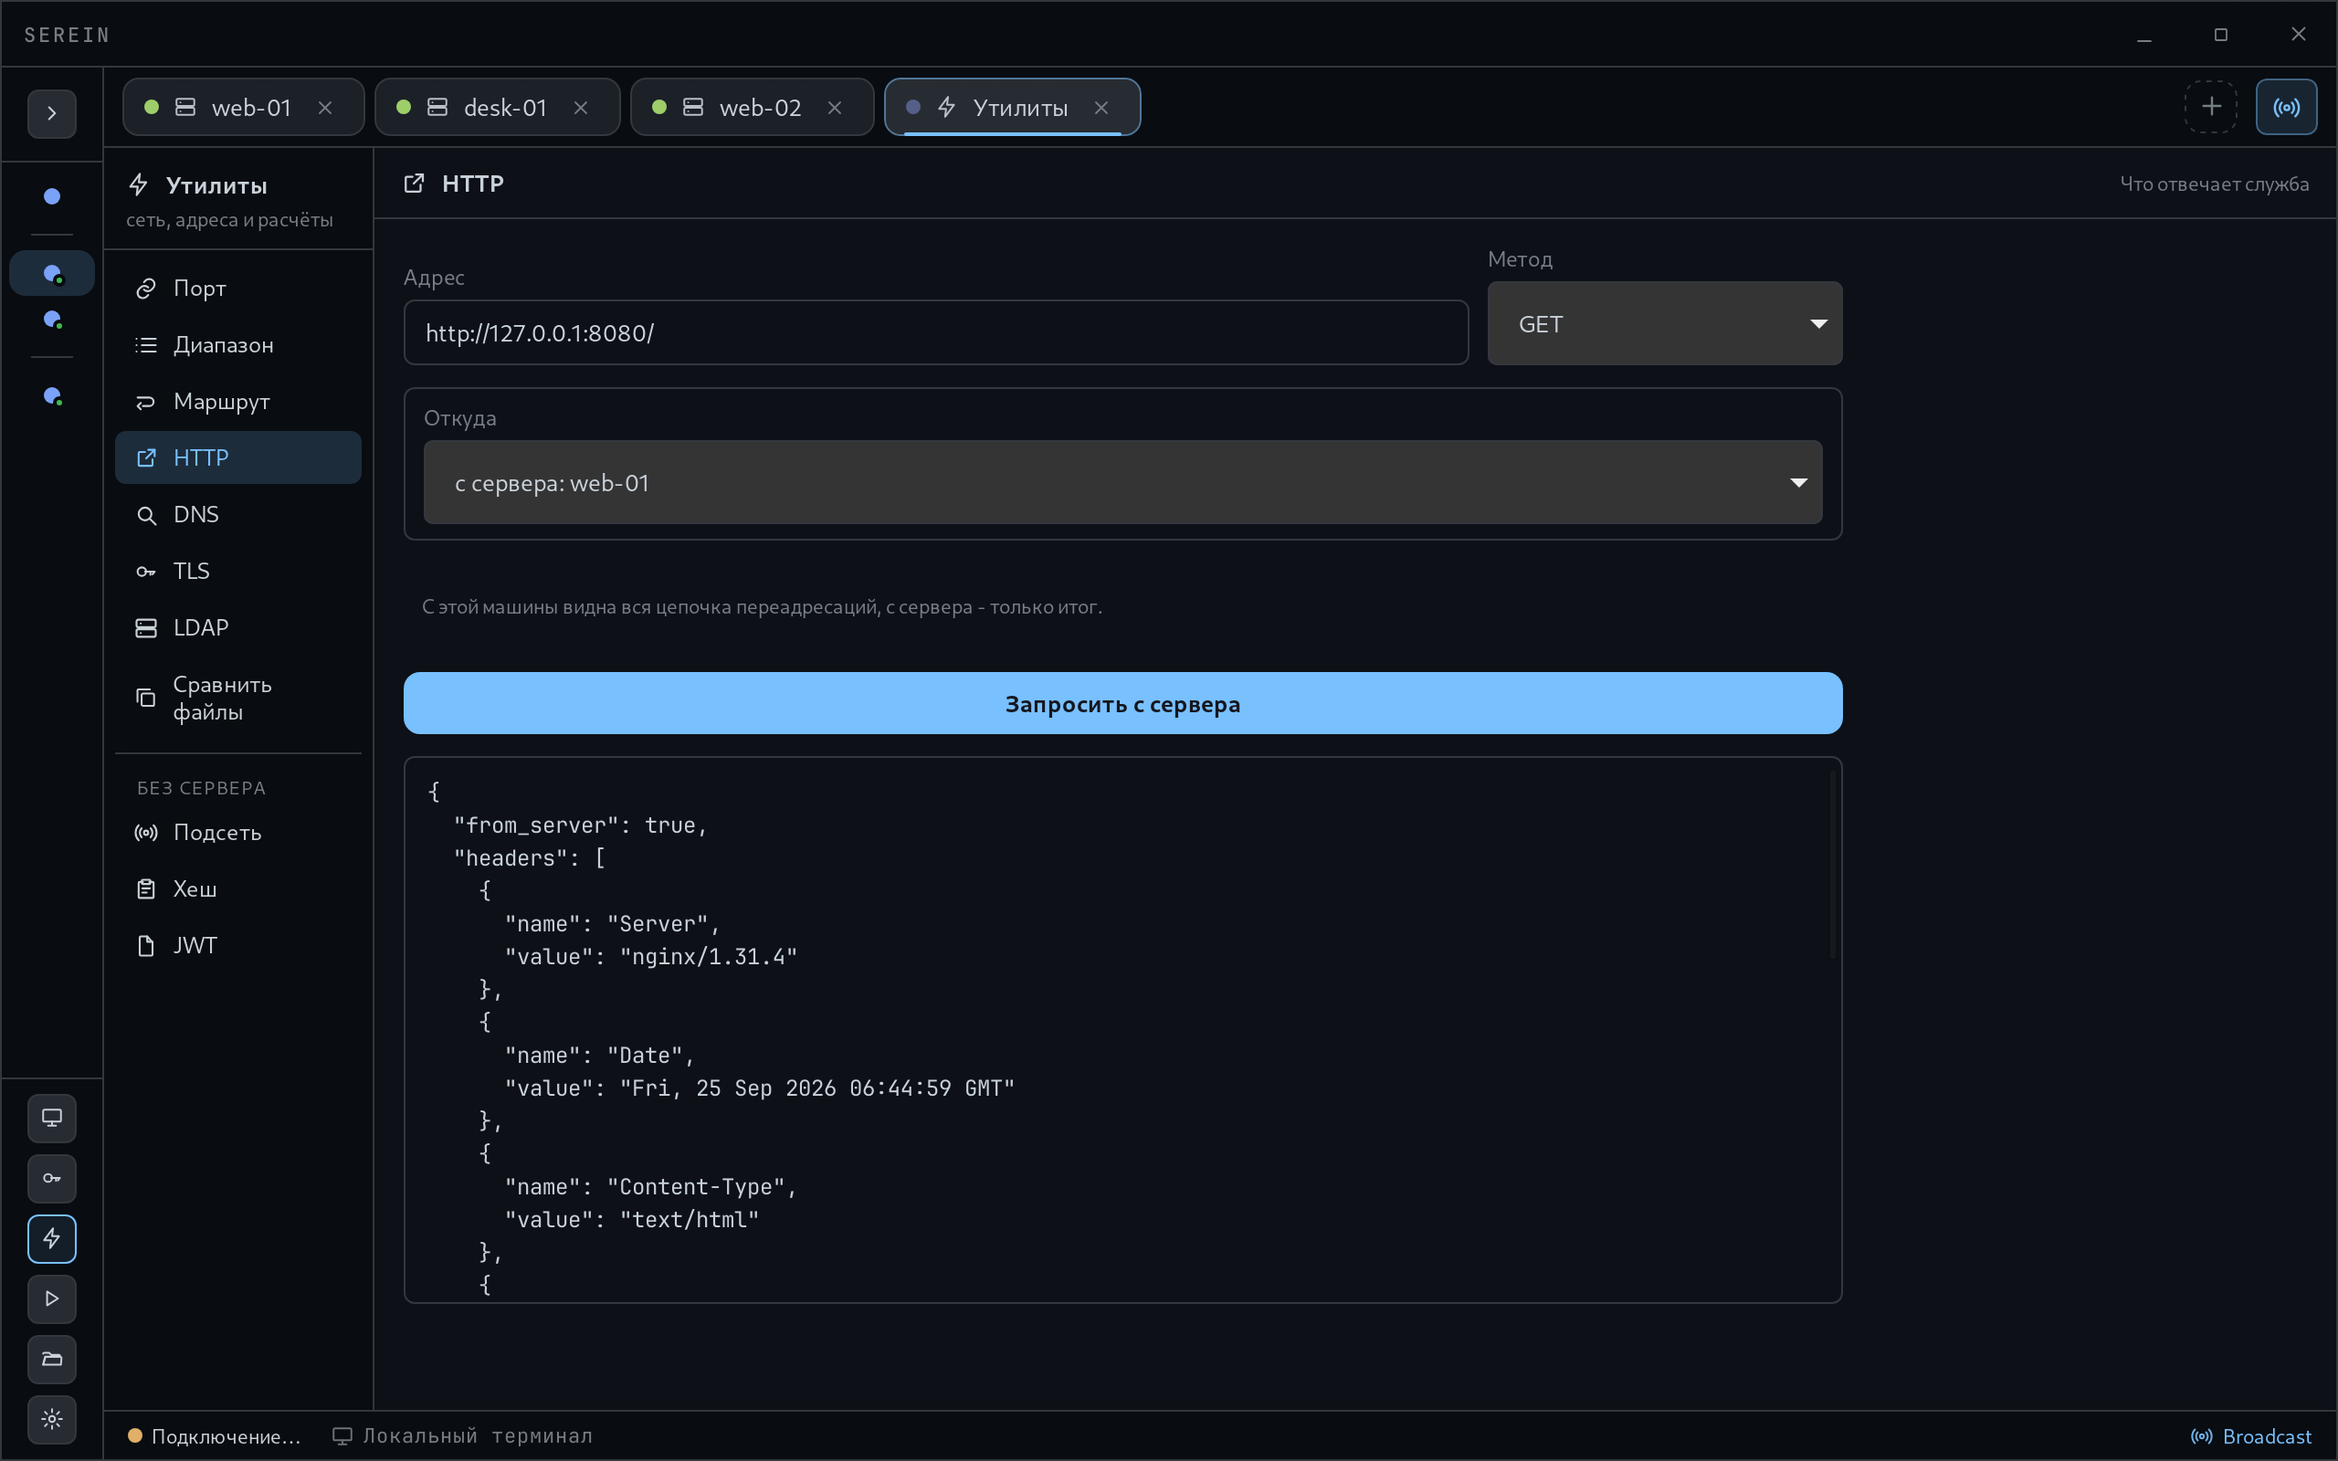
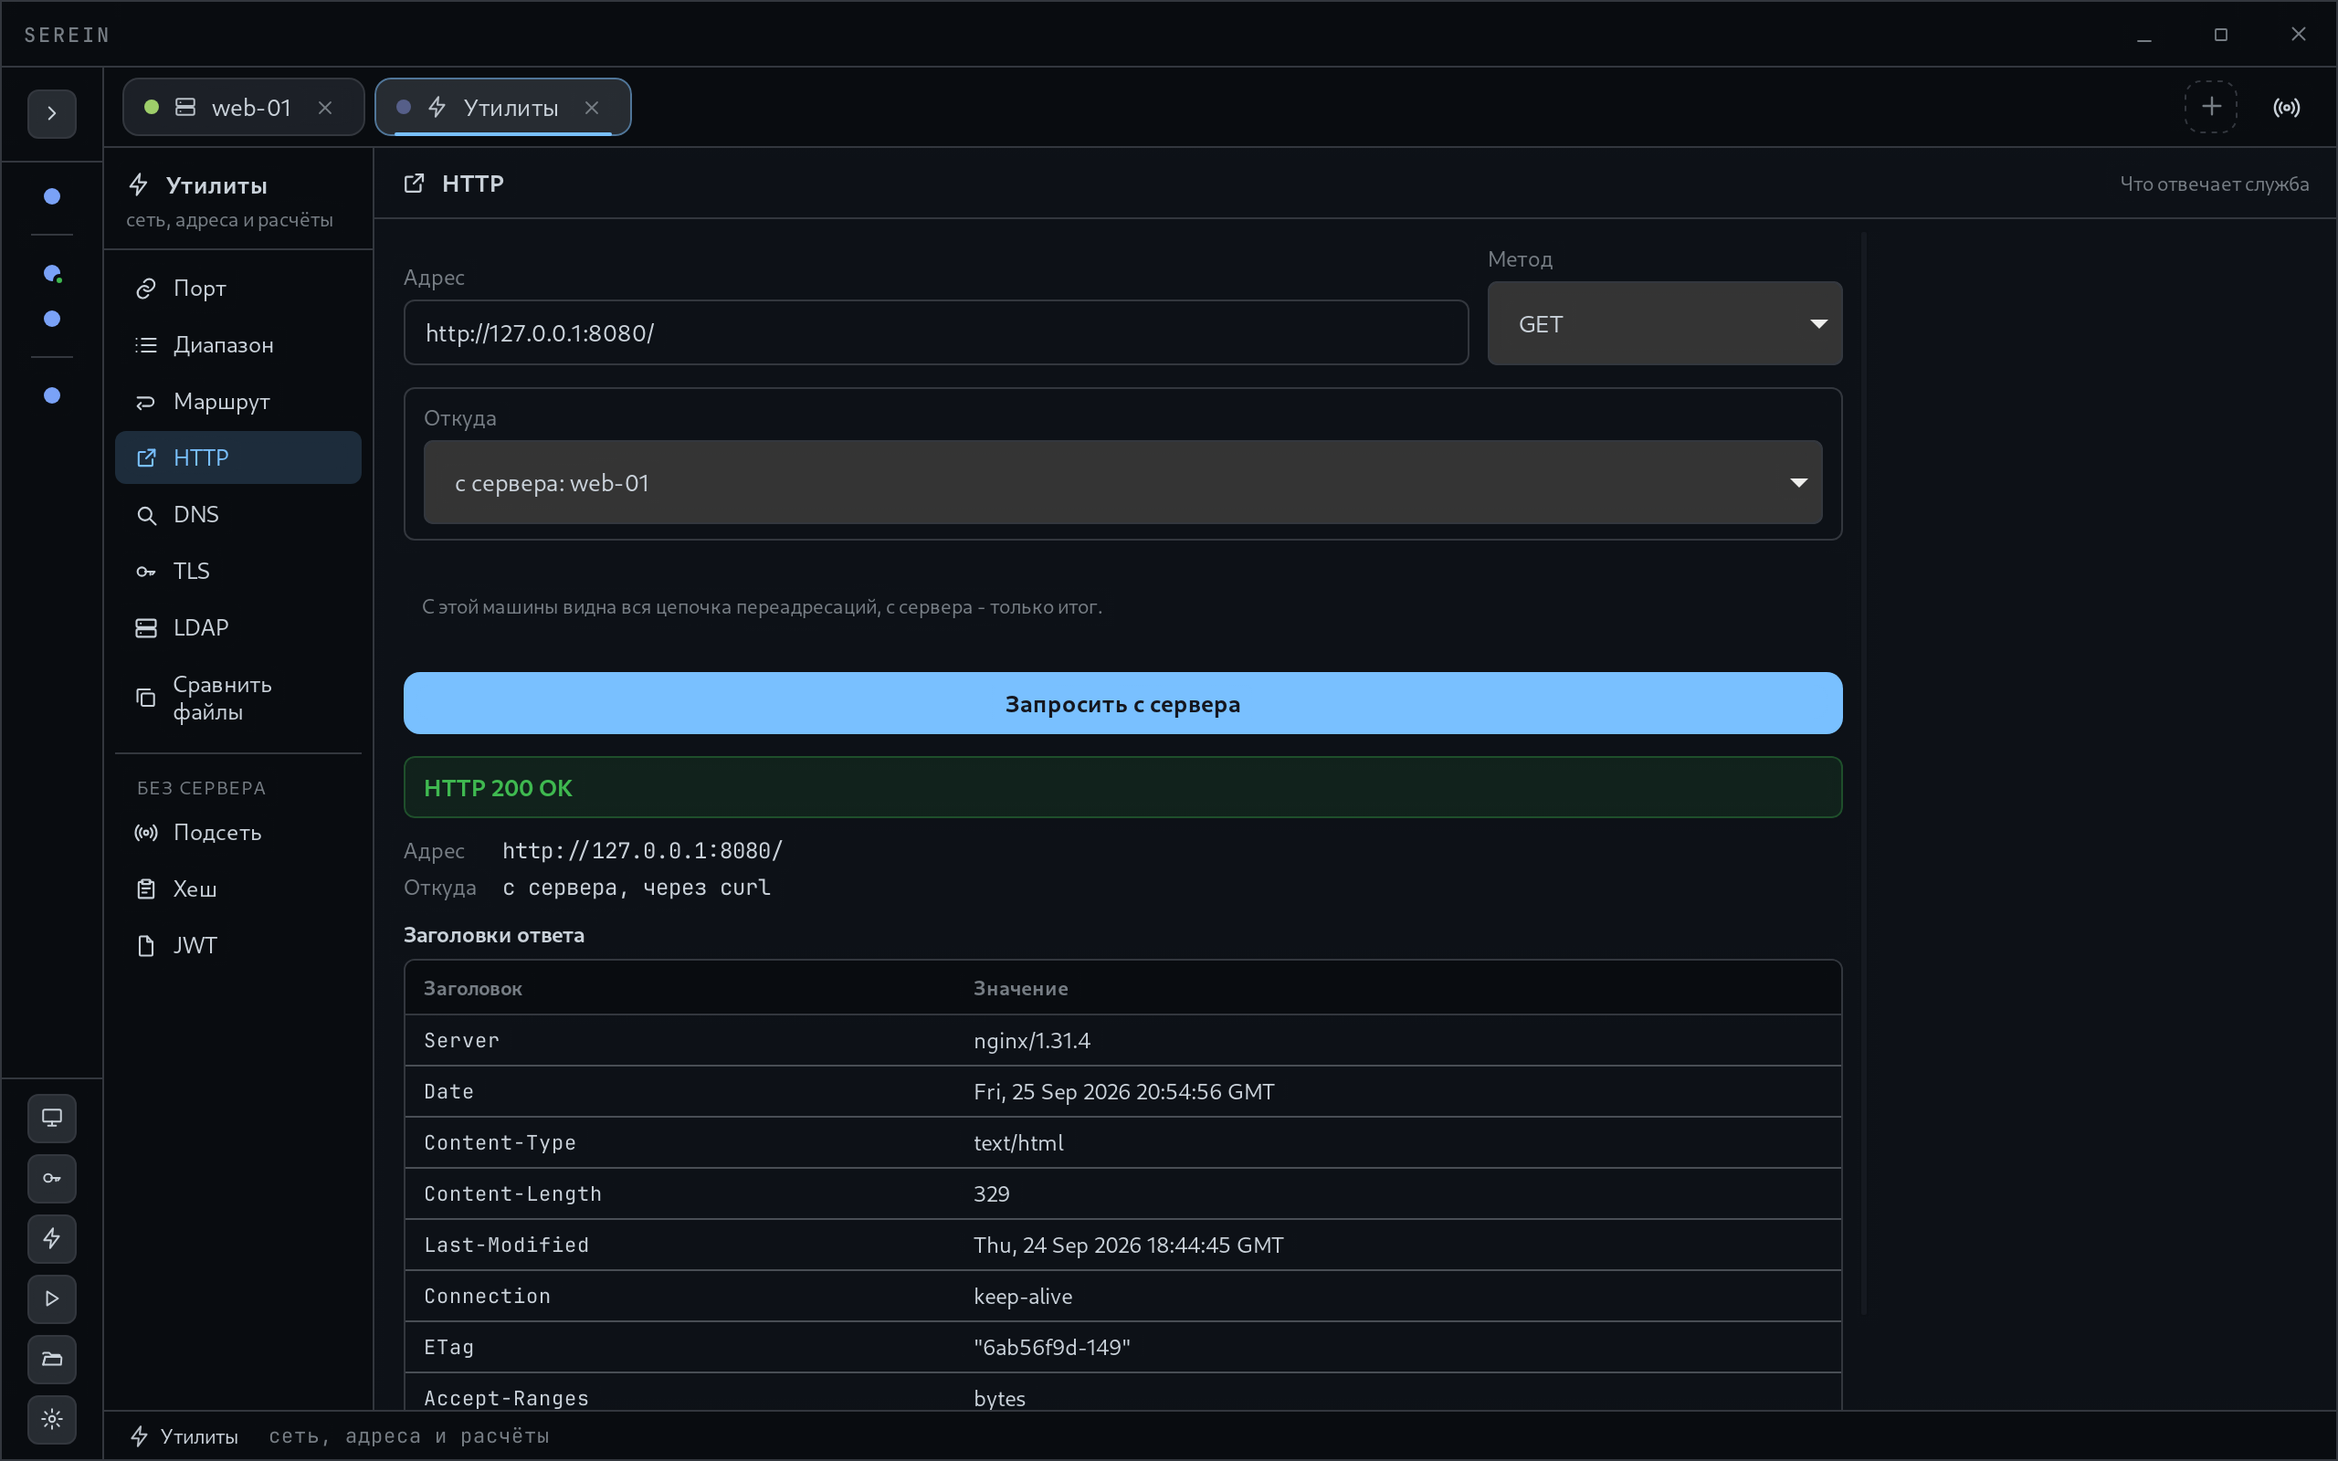
Инструкция и README описывают sudo для служб, ответы утилит словами и повтор пароля, переснято 4 кадра

diff --git a/docs/guide/README.md b/docs/guide/README.md
@@ -419,11 +419,14 @@ PID, состоянию, можно несколько слов) и сортир
 
 Кнопки в строке: запустить, перезапустить, остановить. Serein спросит подтверждение.
 
-> **Важно про права.** Serein управляет службами от имени того пользователя, под которым
-> вы вошли, и пароль `sudo` для этого не спрашивает. Если вы вошли не как `root`, нужен
-> доступ к управлению службами, иначе увидите ошибку systemd
-> «Interactive authentication required». Обычно администратор выдаёт такой доступ правилом
-> polkit для нужных служб. Смотреть список и состояние служб можно без всяких прав.
+> **Про права.** Управлять службами может `root` или пользователь, которому это разрешено:
+> правилом polkit или через `sudo`. Если прав не хватает, Serein сам попробует `sudo`. Когда
+> `sudo` пускает без пароля, действие просто выполнится. Иначе над списком появится поле
+> «Пароль sudo»: пароль уходит серверу напрямую и нигде не сохраняется. Смотреть список и
+> состояние служб можно без всяких прав.
+
+Если служба не запустилась, Serein скажет об этом словами и подскажет, где смотреть
+подробности: `journalctl -u имя-службы`.
 
 ---
 
@@ -533,8 +536,11 @@ PID, состоянию, можно несколько слов) и сортир
 ![HTTP-запрос с сервера](img/tools-http.webp)
 
 Проверка «с сервера» показывает то, что видит сам сервер: например, сайт, который слушает
-только внутри сервера и снаружи недоступен. Результат выводится как есть, в виде
-структурированных данных.
+только внутри сервера и снаружи недоступен.
+
+Ответ показывается словами: сверху итог - «Порт открыт», «HTTP 200 OK», «Действует ещё 65
+дней», ниже подробности и таблицы. Исходный ответ целиком - под «Подробно»: его удобно
+приложить к заявке.
 
 ---
 
@@ -680,14 +686,15 @@ RTS.
 
 - **Мастер-пароль** - дополнительная защита сохранённых паролей и ключей. Serein будет
   спрашивать его при каждом запуске. Минимум 12 символов; удобнее фраза из нескольких
-  слов, спецсимволы не обязательны. Запомните его: без мастер-пароля сохранённые пароли не
+  слов, спецсимволы не обязательны. Пароль вводится дважды, чтобы опечатка не заперла
+  вас снаружи. Запомните его: без мастер-пароля сохранённые пароли не
   расшифровать.
 
   ![Разблокировка](img/unlock.webp)
 
 - **Резервная копия** - «Экспорт» сохраняет серверы, настройки, сниппеты, профили и
-  задачи в зашифрованный файл `.tbk` под паролем, «Импорт» восстанавливает. Файлы SSH-ключей
-  туда не входят: перенесите их отдельно.
+  задачи в зашифрованный файл `serein-backup-дата.tbk` под паролем (его тоже вводят дважды),
+  «Импорт» восстанавливает. Файлы SSH-ключей туда не входят: перенесите их отдельно.
 - **Журнал действий** - см. [раздел 22](#22-журнал-действий).
 - **Ключи серверов** - запомненные отпечатки. Крестик «забывает» сервер: при следующем
   подключении его ключ спросят заново. «Импорт» забирает уже доверенные ключи из

diff --git a/README.ru.md b/README.ru.md
@@ -55,6 +55,9 @@ Windows · без своего Chromium (системный WebView2) ·
 ### Server Workspace (v1.1.0)
 - У SSH-вкладки - **рельса инструментов сервера**: Terminal, Docker, Logs, Processes, Services, Tunnels
 - **Processes** - таблица `ps` с поиском и сортировкой, метрики - в обзоре; **Docker** - компактный список, свойства по ПКМ
+- **Services** - запуск, остановка, перезапуск. Если прав не хватает, Serein пробует `sudo`: молча,
+  если тот пускает без пароля, иначе спрашивает пароль `sudo` - он уходит на стандартный ввод и
+  нигде не сохраняется. Ошибки systemd объясняются словами
 - **SFTP** - боковая панель из TabBar; список серверов при подключении сворачивается
 - **↗ Открепить** вкладку или панель workspace в отдельное окно; **← вернуть** в главное окно (SSH-сессия не рвётся)
 
@@ -173,7 +176,9 @@ Windows · без своего Chromium (системный WebView2) ·
 - **Утилиты (v1.3)** переехали из окна поверх всего в отдельную вкладку с рельсой:
   проверка порта, диапазон портов, трассировка, HTTP-запрос, DNS, TLS-сертификат, запрос
   к каталогу LDAP, сравнение файлов. Без сервера работают калькулятор подсетей, хеши и
-  разбор JWT
+  разбор JWT.
+  Ответ - словами («Порт открыт», «HTTP 200 OK», «Действует ещё 65 дней»), подробности ниже,
+  исходный ответ - под «Подробно»
 - **Проверки гоняются и с сервера, и со своей машины.** Маршрут с сервера строит
   `tracepath`, которому не нужны права root
 - Файл для сравнения выбирается по SFTP
@@ -366,9 +371,9 @@ npm run smoke
 ### Тесты
 
 ```bash
-npm test                                          # фронтенд, 235 тестов
+npm test                                          # фронтенд, 247 тестов
 npm run lint                                      # eslint: хуки React и ловушки выражений
-cargo test --manifest-path src-tauri/Cargo.toml --lib   # 391 тест
+cargo test --manifest-path src-tauri/Cargo.toml --lib   # 399 тестов
 cargo fmt --manifest-path src-tauri/Cargo.toml --check
 cargo clippy --manifest-path src-tauri/Cargo.toml --all-targets -- -D warnings
 ```

diff --git a/README.md b/README.md
@@ -55,6 +55,9 @@ figures are public measurements normalised to the same metric; size is the 1.5.2
 ### Server Workspace (v1.1.0)
 - **Server workspace rail** on SSH tabs: Terminal, Docker, Logs, Processes, Services, Tunnels
 - **Processes** - `ps` table with search and sorting, metrics live in the overview; **Docker** - compact rows, properties via right-click
+- **Services** - start, stop, restart. Without the rights Serein tries `sudo`: silently if it lets in
+  without a password, otherwise it asks for the `sudo` password, which goes to standard input and is
+  never saved. systemd errors are explained in words
 - **SFTP** - side panel from TabBar; server list collapses on connect
 - **Detach** a tab or workspace panel; **reattach** to main (SSH session stays alive)
 
@@ -170,7 +173,9 @@ figures are public measurements normalised to the same metric; size is the 1.5.2
   summary by exit code and a report saved to a file
 - **Utilities (v1.3)** moved out of a modal covering the app into a tab of their own with a
   rail: port check, port range, traceroute, HTTP request, DNS, TLS certificate, LDAP query,
-  file comparison. The subnet calculator, hashes and JWT decode need no server at all
+  file comparison. The subnet calculator, hashes and JWT decode need no server at all.
+  The answer comes in words ("port open", "HTTP 200 OK", "valid for 65 more days") with
+  details below; the raw response is under "Подробно"
 - **Checks run from the server as well as from your machine.** Traceroute from the server
   uses `tracepath`, which needs no root
 - Files for comparison are picked over SFTP
@@ -364,9 +369,9 @@ npm run smoke
 ### Tests
 
 ```bash
-npm test                                          # frontend, 235 tests
+npm test                                          # frontend, 247 tests
 npm run lint                                      # eslint: React hooks and regex traps
-cargo test --manifest-path src-tauri/Cargo.toml --lib   # 391 tests
+cargo test --manifest-path src-tauri/Cargo.toml --lib   # 399 tests
 cargo fmt --manifest-path src-tauri/Cargo.toml --check
 cargo clippy --manifest-path src-tauri/Cargo.toml --all-targets -- -D warnings
 ```
